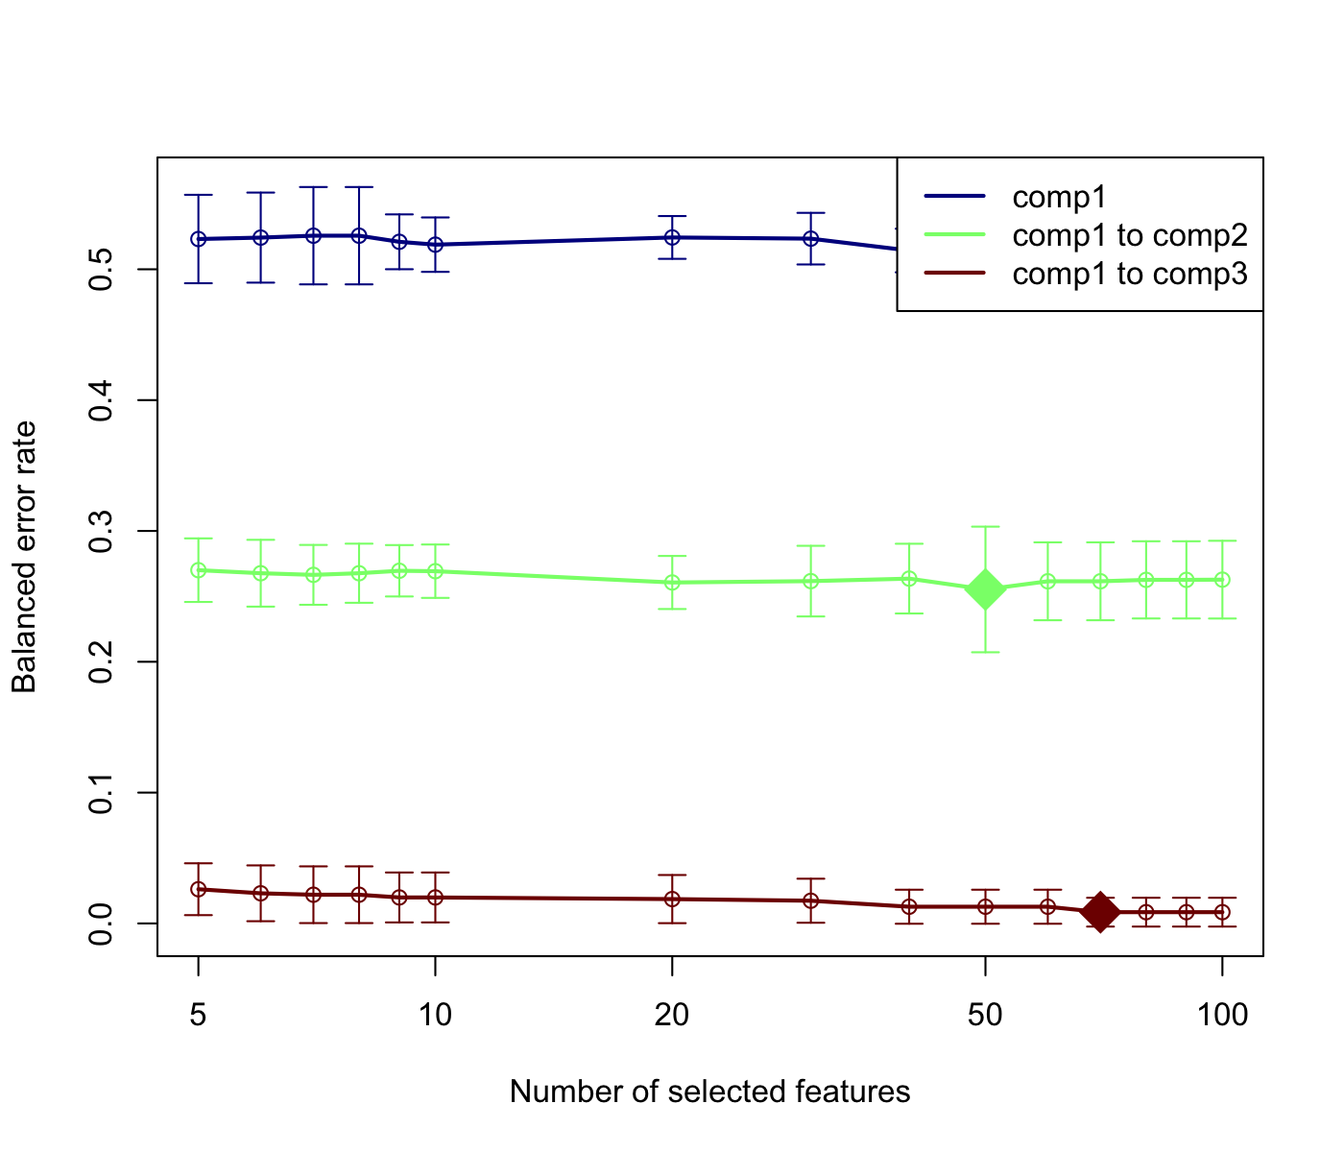
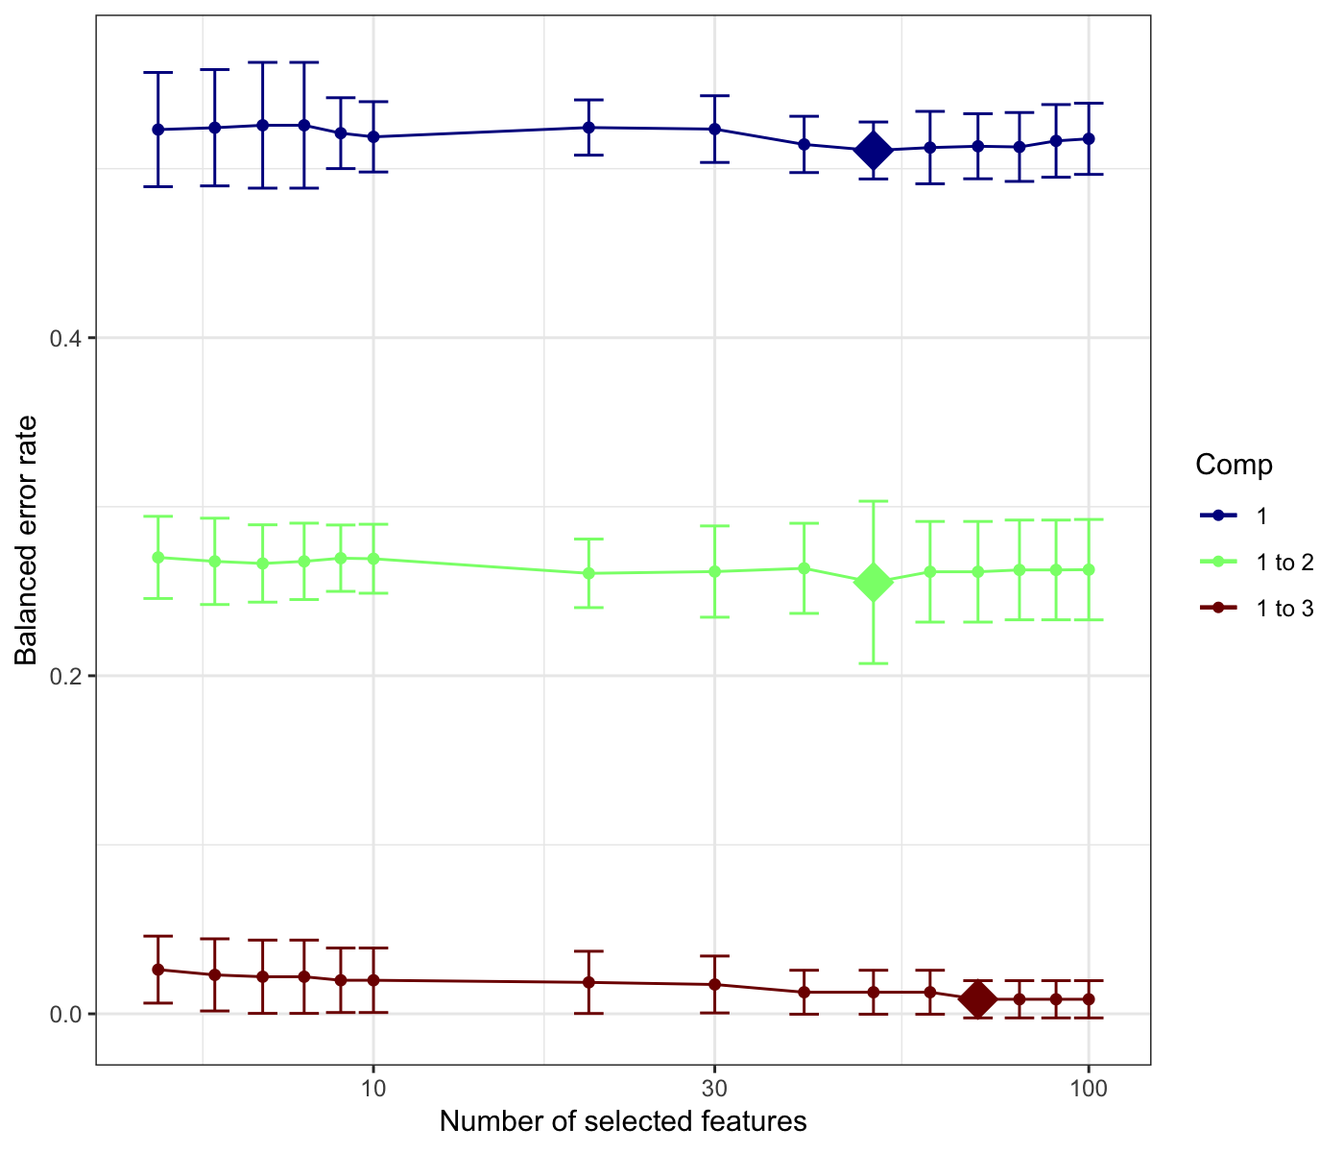
Update bookdown for mixOmics V 6.7.2

diff --git a/docs/index.html b/docs/index.html
@@ -25,7 +25,7 @@
 <meta name="author" content="Kim-Anh Le Cao &amp; Sebastien Dejean">
 
 
-<meta name="date" content="2019-01-08">
+<meta name="date" content="2019-04-26">
 
   <meta name="viewport" content="width=device-width, initial-scale=1">
   <meta name="apple-mobile-web-app-capable" content="yes">
@@ -211,7 +211,7 @@ code > span.in { color: #60a0b0; font-weight: bold; font-style: italic; } /* Inf
 <div id="header">
 <h1 class="title">mixOmics vignette</h1>
 <h4 class="author"><em>Kim-Anh Le Cao &amp; Sebastien Dejean</em></h4>
-<h4 class="date"><em>2019-01-08</em></h4>
+<h4 class="date"><em>2019-04-26</em></h4>
 </div>
 <div id="intro" class="section level1">
 <h1><span class="header-section-number">Chapter 1</span> Introduction</h1>
@@ -267,16 +267,27 @@ Figure 1.2: Main functions and parameters of each method
 </div>
 <div id="intro:pubs" class="section level3">
 <h3><span class="header-section-number">1.2.3</span> Key publications</h3>
+<div id="methods-papers" class="section level4">
+<h4><span class="header-section-number">1.2.3.1</span> Methods papers</h4>
 <p>The methods implemented in <code>mixOmics</code> are described in detail in the following publications. A more extensive list can be found at this <a href="http://mixomics.org/a-propos/publications/">link</a>.</p>
 <ul>
-<li><p><strong>Overview and recent integrative methods</strong>: Rohart F., Gautier, B, Singh, A, Le Cao, K. A. mixOmics: an <a href="http://journals.plos.org/ploscompbiol/article?id=10.1371/journal.pcbi.1005752">R package for ’omics feature selection and multiple data integration</a>. <em>PLoS Comput Biol</em> 13(11): e1005752.</p></li>
+<li><p><strong>DIABLO</strong> (<span style="color:blue">New</span>): Singh A, Gautier B, Shannon C, Vacher M, Rohart F, Tebbutt S, K-A. Le Cao (2019). <a href="https://academic.oup.com/bioinformatics/article-lookup/doi/10.1093/bioinformatics/bty1054">DIABLO: an integrative approach for identifying key molecular drivers from multi-omics assays</a>. <em>Bioinformatics</em> bty1054.</p></li>
+<li><p><strong>Overview and recent integrative methods</strong>: Rohart F., Gautier, B, Singh, A, Le Cao, K. A. mixOmics: an <a href="http://journals.plos.org/ploscompbiol/article?id=10.1371/journal.pcbi.1005752">R package for omics feature selection and multiple data integration</a>. <em>PLoS Comput Biol</em> 13(11): e1005752.</p></li>
 <li><p><strong>Graphical outputs for integrative methods</strong>: <span class="citation">(González et al. <a href="#ref-Gon12">2012</a>)</span> Gonzalez I., Le Cao K.-A., Davis, M.D. and Dejean S. (2012) <a href="https://biodatamining.biomedcentral.com/articles/10.1186/1756-0381-5-19">Insightful graphical outputs to explore relationships between two omics data sets</a>. <em>BioData Mining</em> 5:19.</p></li>
-<li><p><strong>DIABLO</strong>: Singh A, Gautier B, Shannon C, Vacher M, Rohart F, Tebbutt S, K-A. Le Cao. <a href="https://www.biorxiv.org/content/early/2018/03/20/067611">DIABLO - multi-omics data integration for biomarker discovery.</a></p></li>
 <li><p><strong>sparse PLS</strong>: Le Cao K.-A., Martin P.G.P, Robert-Granie C. and Besse, P. (2009) <a href="http://www.biomedcentral.com/1471-2105/10/34/">Sparse Canonical Methods for Biological Data Integration: application to a cross-platform study</a>. <em>BMC Bioinformatics</em>, 10:34.</p></li>
 <li><p><strong>sparse PLS-DA</strong>:Le Cao K.-A., Boitard S. and Besse P. (2011) <a href="https://bmcbioinformatics.biomedcentral.com/articles/10.1186/1471-2105-12-253">Sparse PLS Discriminant Analysis: biologically relevant feature selection and graphical displays for multiclass problems</a>. <em>BMC Bioinformatics</em>, 22:253.</p></li>
-<li><p><strong>Multilevel approach for repeated measurements</strong>: Liquet B, Le Cao K-A, Hocini H, Thiebaut R (2012). <a href="https://bmcbioinformatics.biomedcentral.com/articles/10.1186/1471-2105-13-325">A novel approach for biomarker selection and the integration of repeated measures experiments from two assays</a>. <em>BMC Bioinformatics</em>, 13:325</p></li>
 <li><p><strong>sPLS-DA for microbiome data</strong>: Le Cao K-A<span class="math inline">\(^*\)</span>, Costello ME <span class="math inline">\(^*\)</span>, Lakis VA , Bartolo F, Chua XY, Brazeilles R and Rondeau P. (2016) <a href="http://journals.plos.org/plosone/article?id=10.1371/journal.pone.0160169">MixMC: Multivariate insights into Microbial Communities</a>.PLoS ONE 11(8): e0160169</p></li>
+<li><p><strong>Multilevel approach for repeated measurements</strong>: Liquet B, Le Cao K-A, Hocini H, Thiebaut R (2012). <a href="https://bmcbioinformatics.biomedcentral.com/articles/10.1186/1471-2105-13-325">A novel approach for biomarker selection and the integration of repeated measures experiments from two assays</a>. <em>BMC Bioinformatics</em>, 13:325</p></li>
 </ul>
+</div>
+<div id="biological-application-papers" class="section level4">
+<h4><span class="header-section-number">1.2.3.2</span> Biological application papers</h4>
+<p>For those interested in how these methods have been applied to omics biological problems:</p>
+<ul>
+<li><p>Lee AH, Shanon CS, […], some members of mixOmics team and Kollman T (2019). <a href="https://www.nature.com/articles/s41467-019-08794-x">Dynamic molecular changes during the first week of human life follow a robust developmental trajectory</a> <em>Nature Communications</em> <strong>10</strong>: 1092. <em>We used DIABLO and other multi omics integrative methods to integratve 3 - 5 omics datasets</em>.</p></li>
+<li><p>Gavin PG, […], and Hamilton-Williams EE (2018). <a href="https://www.nature.com/articles/s41467-019-08794-x">Intestinal metaproteomics reveals host-microbiota interactions in subjects at risk for type 1 diabetes</a> <em>Diabetes care</em> <strong>41</strong>: 10. <em>We used DIABLO to integrate microbiome, proteomics and meta-proteomics</em>.</p></li>
+</ul>
+</div>
 </div>
 </div>
 <div id="outline-of-this-vignette" class="section level2">

diff --git a/docs/start.html b/docs/start.html
@@ -25,7 +25,7 @@
 <meta name="author" content="Kim-Anh Le Cao &amp; Sebastien Dejean">
 
 
-<meta name="date" content="2019-01-08">
+<meta name="date" content="2019-04-26">
 
   <meta name="viewport" content="width=device-width, initial-scale=1">
   <meta name="apple-mobile-web-app-capable" content="yes">
@@ -216,8 +216,11 @@ code > span.in { color: #60a0b0; font-weight: bold; font-style: italic; } /* Inf
 <div class="sourceCode"><pre class="sourceCode r"><code class="sourceCode r"><span class="cf">if</span> (<span class="op">!</span><span class="kw">requireNamespace</span>(<span class="st">&quot;BiocManager&quot;</span>, <span class="dt">quietly =</span> <span class="ot">TRUE</span>))
     <span class="kw">install.packages</span>(<span class="st">&quot;BiocManager&quot;</span>)
  BiocManager<span class="op">::</span><span class="kw">install</span>(<span class="st">&quot;mixOmics&quot;</span>)</code></pre></div>
-<p>Alternatively, you can install the development version of the package from Github.</p>
-<div class="sourceCode"><pre class="sourceCode r"><code class="sourceCode r">BiocManager<span class="op">::</span><span class="kw">install</span>(<span class="st">&quot;mixOmicsTeam/mixOmics/&quot;</span>)</code></pre></div>
+<p>Alternatively, you can install the <em>latest</em> development version of the package from Github.</p>
+<div class="sourceCode"><pre class="sourceCode r"><code class="sourceCode r"><span class="kw">install.packages</span>(<span class="st">&quot;devtools&quot;</span>)
+<span class="co"># then load</span>
+<span class="kw">library</span>(devtools)
+<span class="kw">install_github</span>(<span class="st">&quot;mixOmicsTeam/mixOmics&quot;</span>)</code></pre></div>
 <p>The <code>mixOmics</code> package should directly import the following packages: <code>igraph, rgl, ellipse, corpcor, RColorBrewer, plyr, parallel, dplyr, tidyr, reshape2, methods, matrixStats, rARPACK, gridExtra</code>. For <em>apple mac users</em>, if you are unable to install the imported library <code>rgl</code>, you will need to install the <a href="https://www.xquartz.org">XQuartz software</a> first.</p>
 </div>
 <div id="start:upload" class="section level2">
@@ -227,12 +230,15 @@ code > span.in { color: #60a0b0; font-weight: bold; font-style: italic; } /* Inf
 </div>
 <div id="upload-data" class="section level2">
 <h2><span class="header-section-number">2.3</span> Upload data</h2>
-<p>The examples we give in this vignette use data that are already part of the package. To upload your own data, check first that your working directory is set, then read your data from a <code>.txt</code> or <code>.csv</code> format, either by using <strong>File &gt; Import Dataset</strong> in RStudio or via one of these command lines:</p>
+<p>The examples we give in this vignette use data that are already part of the package, <em>which means that the objects are stored as list. However, you do not need to store your data as list, just data frames will do</em>. To upload your own data, check first that your working directory is set, then read your data from a <code>.txt</code> or <code>.csv</code> format, either by using <strong>File &gt; Import Dataset</strong> in RStudio (<em>although be mindful this option may pose problem with row and col name headers</em>) or via one of these command lines:</p>
 <div class="sourceCode"><pre class="sourceCode r"><code class="sourceCode r"><span class="co"># from csv file</span>
 data &lt;-<span class="st"> </span><span class="kw">read.csv</span>(<span class="st">&quot;your_data.csv&quot;</span>, <span class="dt">row.names =</span> <span class="dv">1</span>, <span class="dt">header =</span> <span class="ot">TRUE</span>)
 
 <span class="co"># from txt file</span>
-data &lt;-<span class="st"> </span><span class="kw">read.table</span>(<span class="st">&quot;your_data.txt&quot;</span>, <span class="dt">header =</span> <span class="ot">TRUE</span>)</code></pre></div>
+data &lt;-<span class="st"> </span><span class="kw">read.table</span>(<span class="st">&quot;your_data.txt&quot;</span>, <span class="dt">header =</span> <span class="ot">TRUE</span>)
+
+<span class="co"># then, in the argument in the mixOmics functions, just fill with:</span>
+<span class="co"># X = data</span></code></pre></div>
 <p>For more details about the arguments used to modify those functions, type <code>?read.csv</code> or <code>?read.table</code> in the R console.</p>
 </div>
 <div id="start:PCA" class="section level2">

diff --git a/docs/plsda.html b/docs/plsda.html
@@ -25,7 +25,7 @@
 <meta name="author" content="Kim-Anh Le Cao &amp; Sebastien Dejean">
 
 
-<meta name="date" content="2019-01-08">
+<meta name="date" content="2019-04-26">
 
   <meta name="viewport" content="width=device-width, initial-scale=1">
   <meta name="apple-mobile-web-app-capable" content="yes">
@@ -349,7 +349,18 @@ Y &lt;-<span class="st"> </span>srbct<span class="op">$</span>class
 MyPerf.plsda &lt;-<span class="st"> </span><span class="kw">perf</span>(MyResult.plsda2, <span class="dt">validation =</span> <span class="st">&quot;Mfold&quot;</span>, <span class="dt">folds =</span> <span class="dv">3</span>, 
                   <span class="dt">progressBar =</span> <span class="ot">FALSE</span>, <span class="dt">nrepeat =</span> <span class="dv">10</span>) <span class="co"># we suggest nrepeat = 50</span>
 
-<span class="kw">plot</span>(MyPerf.plsda, <span class="dt">col =</span> <span class="kw">color.mixo</span>(<span class="dv">5</span><span class="op">:</span><span class="dv">7</span>), <span class="dt">sd =</span> <span class="ot">TRUE</span>, <span class="dt">legend.position =</span> <span class="st">&quot;horizontal&quot;</span>)</code></pre></div>
+<span class="co"># type attributes(MyPerf.plsda) to see the different outputs</span>
+<span class="co"># slight bug in our output function currently see the quick fix below</span>
+<span class="co">#plot(MyPerf.plsda, col = color.mixo(5:7), sd = TRUE, legend.position = &quot;horizontal&quot;)</span>
+
+<span class="co"># quick fix</span>
+<span class="kw">matplot</span>(MyPerf.plsda<span class="op">$</span>error.rate<span class="op">$</span>BER, <span class="dt">type =</span> <span class="st">&#39;l&#39;</span>, <span class="dt">lty =</span> <span class="dv">1</span>, 
+        <span class="dt">col =</span> <span class="kw">color.mixo</span>(<span class="dv">1</span><span class="op">:</span><span class="dv">3</span>), 
+        <span class="dt">main =</span> <span class="st">&#39;Balanced Error rate&#39;</span>)
+<span class="kw">legend</span>(<span class="st">&#39;topright&#39;</span>, 
+       <span class="kw">c</span>(<span class="st">&#39;max.dist&#39;</span>, <span class="st">&#39;centroids.dist&#39;</span>, <span class="st">&#39;mahalanobis.dist&#39;</span>), 
+       <span class="dt">lty =</span> <span class="dv">1</span>,
+       <span class="dt">col =</span> <span class="kw">color.mixo</span>(<span class="dv">5</span><span class="op">:</span><span class="dv">7</span>))</code></pre></div>
 <p><img src="Figures/unnamed-chunk-13-1.png" width="50%" style="display: block; margin: auto;" /></p>
 <p>The plot outputs the classification error rate, or <em>Balanced</em> classification error rate when the number of samples per group is unbalanced, the standard deviation according to three prediction distances. Here we can see that for the BER and the maximum distance, the best performance (i.e. low error rate) seems to be achieved for <code>ncomp = 3</code>.</p>
 <p>In addition (<strong>item 3</strong> for PLS-DA), the numerical outputs listed here can be reported as performance measures:</p>

diff --git a/docs/session-information.html b/docs/session-information.html
@@ -25,7 +25,7 @@
 <meta name="author" content="Kim-Anh Le Cao &amp; Sebastien Dejean">
 
 
-<meta name="date" content="2019-01-08">
+<meta name="date" content="2019-04-26">
 
   <meta name="viewport" content="width=device-width, initial-scale=1">
   <meta name="apple-mobile-web-app-capable" content="yes">
@@ -211,7 +211,7 @@ code > span.in { color: #60a0b0; font-weight: bold; font-style: italic; } /* Inf
 <div id="session-information" class="section level1">
 <h1><span class="header-section-number">Chapter 7</span> Session Information</h1>
 <div class="sourceCode"><pre class="sourceCode r"><code class="sourceCode r"><span class="kw">sessionInfo</span>()</code></pre></div>
-<pre><code>## R version 3.5.0 (2018-04-23)
+<pre><code>## R version 3.5.3 (2019-03-11)
 ## Platform: x86_64-apple-darwin15.6.0 (64-bit)
 ## Running under: macOS High Sierra 10.13.3
 ## 
@@ -226,8 +226,8 @@ code > span.in { color: #60a0b0; font-weight: bold; font-style: italic; } /* Inf
 ## [1] stats     graphics  grDevices utils     datasets  methods   base     
 ## 
 ## loaded via a namespace (and not attached):
-##  [1] compiler_3.5.0  backports_1.1.2 magrittr_1.5    bookdown_0.7   
-##  [5] rprojroot_1.3-2 tools_3.5.0     htmltools_0.3.6 yaml_2.2.0     
+##  [1] compiler_3.5.3  backports_1.1.3 magrittr_1.5    bookdown_0.7   
+##  [5] rprojroot_1.3-2 tools_3.5.3     htmltools_0.3.6 yaml_2.2.0     
 ##  [9] Rcpp_1.0.0      stringi_1.2.4   rmarkdown_1.10  knitr_1.20     
 ## [13] stringr_1.3.1   xfun_0.4        digest_0.6.18   evaluate_0.12</code></pre>
 

diff --git a/docs/diablo.html b/docs/diablo.html
@@ -25,7 +25,7 @@
 <meta name="author" content="Kim-Anh Le Cao &amp; Sebastien Dejean">
 
 
-<meta name="date" content="2019-01-08">
+<meta name="date" content="2019-04-26">
 
   <meta name="viewport" content="width=device-width, initial-scale=1">
   <meta name="apple-mobile-web-app-capable" content="yes">

diff --git a/docs/pca.html b/docs/pca.html
@@ -25,7 +25,7 @@
 <meta name="author" content="Kim-Anh Le Cao &amp; Sebastien Dejean">
 
 
-<meta name="date" content="2019-01-08">
+<meta name="date" content="2019-04-26">
 
   <meta name="viewport" content="width=device-width, initial-scale=1">
   <meta name="apple-mobile-web-app-capable" content="yes">

diff --git a/docs/pls.html b/docs/pls.html
@@ -25,7 +25,7 @@
 <meta name="author" content="Kim-Anh Le Cao &amp; Sebastien Dejean">
 
 
-<meta name="date" content="2019-01-08">
+<meta name="date" content="2019-04-26">
 
   <meta name="viewport" content="width=device-width, initial-scale=1">
   <meta name="apple-mobile-web-app-capable" content="yes">

diff --git a/docs/index.md b/docs/index.md
@@ -3,7 +3,7 @@ title: 'mixOmics vignette'
 author: 'Kim-Anh Le Cao & Sebastien Dejean'
 package: mixOmics
 site: bookdown::bookdown_site
-date: "2019-01-08"
+date: "2019-04-26"
 output: 
   bookdown::gitbook
 documentclass: book
@@ -99,21 +99,32 @@ Here is an overview of the most widely used methods in `mixOmics` that will be f
 
 ### Key publications {#intro:pubs}
 
+#### Methods papers
 The methods implemented in `mixOmics` are described in detail in the following publications. A more extensive list can be found at this [link](http://mixomics.org/a-propos/publications/).
 
-- **Overview and recent integrative methods**: Rohart F.,  Gautier, B, Singh, A, Le Cao, K. A. mixOmics: an [R package for 'omics feature selection and multiple data integration](http://journals.plos.org/ploscompbiol/article?id=10.1371/journal.pcbi.1005752). *PLoS Comput Biol* 13(11): e1005752.
+- **DIABLO** (<span style="color:blue">New</span>): Singh A, Gautier B, Shannon C, Vacher M, Rohart F, Tebbutt S, K-A. Le Cao (2019). [DIABLO: an integrative approach for identifying key molecular drivers from multi-omics assays](https://academic.oup.com/bioinformatics/article-lookup/doi/10.1093/bioinformatics/bty1054). *Bioinformatics* bty1054. 
+
+
+- **Overview and recent integrative methods**: Rohart F.,  Gautier, B, Singh, A, Le Cao, K. A. mixOmics: an [R package for omics feature selection and multiple data integration](http://journals.plos.org/ploscompbiol/article?id=10.1371/journal.pcbi.1005752). *PLoS Comput Biol* 13(11): e1005752.
 
 - **Graphical outputs for integrative methods**: [@Gon12] Gonzalez I., Le Cao K.-A., Davis, M.D. and Dejean S. (2012) [Insightful graphical outputs to explore relationships between two omics data sets](https://biodatamining.biomedcentral.com/articles/10.1186/1756-0381-5-19). *BioData Mining* 5:19.
 
-- **DIABLO**: Singh A, Gautier B, Shannon C, Vacher M, Rohart F, Tebbutt S, K-A. Le Cao. [DIABLO - multi-omics data integration for biomarker discovery.](https://www.biorxiv.org/content/early/2018/03/20/067611)
 
 - **sparse PLS**: Le Cao K.-A., Martin P.G.P, Robert-Granie C. and Besse, P. (2009) [Sparse Canonical Methods for Biological Data Integration: application to a cross-platform study](http://www.biomedcentral.com/1471-2105/10/34/). *BMC Bioinformatics*, 10:34.
 
 - **sparse PLS-DA**:Le Cao K.-A., Boitard S. and Besse P. (2011) [Sparse PLS Discriminant Analysis: biologically relevant feature selection and graphical displays for multiclass problems]( https://bmcbioinformatics.biomedcentral.com/articles/10.1186/1471-2105-12-253). *BMC Bioinformatics*, 22:253.
 
+- **sPLS-DA for microbiome data**: Le Cao K-A$^*$, Costello ME $^*$, Lakis VA , Bartolo F, Chua XY, Brazeilles R and Rondeau P. (2016) [MixMC: Multivariate insights into Microbial Communities](http://journals.plos.org/plosone/article?id=10.1371/journal.pone.0160169).PLoS ONE 11(8): e0160169
+
 - **Multilevel approach for repeated measurements**: Liquet B, Le Cao K-A, Hocini H, Thiebaut R (2012). [A novel approach for biomarker selection and the integration of repeated measures experiments from two assays](https://bmcbioinformatics.biomedcentral.com/articles/10.1186/1471-2105-13-325). *BMC Bioinformatics*, 13:325
 
-- **sPLS-DA for microbiome data**: Le Cao K-A$^*$, Costello ME $^*$, Lakis VA , Bartolo F, Chua XY, Brazeilles R and Rondeau P. (2016) [MixMC: Multivariate insights into Microbial Communities](http://journals.plos.org/plosone/article?id=10.1371/journal.pone.0160169).PLoS ONE 11(8): e0160169
+
+#### Biological application papers
+For those interested in how these methods have been applied to omics biological problems:
+
+- Lee AH, Shanon CS, [...], some members of mixOmics team and Kollman T (2019). [Dynamic molecular changes during the first week of human life follow a robust developmental trajectory](https://www.nature.com/articles/s41467-019-08794-x) *Nature Communications* **10**: 1092. *We used DIABLO and other multi omics integrative methods to integratve 3 - 5 omics datasets*.
+
+- Gavin PG, [...], and Hamilton-Williams EE (2018). [Intestinal metaproteomics reveals host-microbiota interactions in subjects at risk for type 1 diabetes](https://www.nature.com/articles/s41467-019-08794-x) *Diabetes care* **41**: 10. *We used DIABLO to integrate microbiome, proteomics and meta-proteomics*.
 
 
 

diff --git a/docs/02-get-started.md b/docs/02-get-started.md
@@ -12,10 +12,13 @@ if (!requireNamespace("BiocManager", quietly = TRUE))
  BiocManager::install("mixOmics")
 ```
 
-Alternatively, you can install the development version of the package from Github.
+Alternatively, you can install the *latest* development version of the package from Github.
 
 ```r
-BiocManager::install("mixOmicsTeam/mixOmics/")
+install.packages("devtools")
+# then load
+library(devtools)
+install_github("mixOmicsTeam/mixOmics")
 ```
 
 The `mixOmics` package should directly import the following packages: `igraph, rgl, ellipse, corpcor, RColorBrewer, plyr, parallel, dplyr, tidyr, reshape2, methods, matrixStats, rARPACK, gridExtra`. For *apple mac users*, if you are unable to install the imported library `rgl`, you will need to install the [XQuartz software](https://www.xquartz.org) first.
@@ -29,7 +32,7 @@ library(mixOmics)
 Check that there is no error when loading the package, especially for the `rgl` library (see above).
 
 ## Upload data
-The examples we give in this vignette use data that are already part of the package. To upload your own data, check first that your working directory is set, then read your data from a  `.txt` or `.csv` format, either by using **File > Import Dataset** in RStudio or via one of these command lines:
+The examples we give in this vignette use data that are already part of the package, *which means that the objects are stored as list. However, you do not need to store your data as list, just data frames will do*. To upload your own data, check first that your working directory is set, then read your data from a  `.txt` or `.csv` format, either by using **File > Import Dataset** in RStudio (*although be mindful this option may pose problem with row and col name headers*) or via one of these command lines:
 
 
 ```r
@@ -38,6 +41,9 @@ data <- read.csv("your_data.csv", row.names = 1, header = TRUE)
 
 # from txt file
 data <- read.table("your_data.txt", header = TRUE)
+
+# then, in the argument in the mixOmics functions, just fill with:
+# X = data
 ```
 
 For more details about the arguments used to modify those functions, type `?read.csv` or `?read.table` in the R console.

diff --git a/docs/04-PLSDA.md b/docs/04-PLSDA.md
@@ -247,7 +247,18 @@ set.seed(30) # for reproducbility in this vignette, otherwise increase nrepeat
 MyPerf.plsda <- perf(MyResult.plsda2, validation = "Mfold", folds = 3, 
                   progressBar = FALSE, nrepeat = 10) # we suggest nrepeat = 50
 
-plot(MyPerf.plsda, col = color.mixo(5:7), sd = TRUE, legend.position = "horizontal")
+# type attributes(MyPerf.plsda) to see the different outputs
+# slight bug in our output function currently see the quick fix below
+#plot(MyPerf.plsda, col = color.mixo(5:7), sd = TRUE, legend.position = "horizontal")
+
+# quick fix
+matplot(MyPerf.plsda$error.rate$BER, type = 'l', lty = 1, 
+        col = color.mixo(1:3), 
+        main = 'Balanced Error rate')
+legend('topright', 
+       c('max.dist', 'centroids.dist', 'mahalanobis.dist'), 
+       lty = 1,
+       col = color.mixo(5:7))
 ```
 
 <img src="Figures/unnamed-chunk-13-1.png" width="50%" style="display: block; margin: auto;" />

diff --git a/docs/07-SessionInfo.md b/docs/07-SessionInfo.md
@@ -7,7 +7,7 @@ sessionInfo()
 ```
 
 ```
-## R version 3.5.0 (2018-04-23)
+## R version 3.5.3 (2019-03-11)
 ## Platform: x86_64-apple-darwin15.6.0 (64-bit)
 ## Running under: macOS High Sierra 10.13.3
 ## 
@@ -22,8 +22,8 @@ sessionInfo()
 ## [1] stats     graphics  grDevices utils     datasets  methods   base     
 ## 
 ## loaded via a namespace (and not attached):
-##  [1] compiler_3.5.0  backports_1.1.2 magrittr_1.5    bookdown_0.7   
-##  [5] rprojroot_1.3-2 tools_3.5.0     htmltools_0.3.6 yaml_2.2.0     
+##  [1] compiler_3.5.3  backports_1.1.3 magrittr_1.5    bookdown_0.7   
+##  [5] rprojroot_1.3-2 tools_3.5.3     htmltools_0.3.6 yaml_2.2.0     
 ##  [9] Rcpp_1.0.0      stringi_1.2.4   rmarkdown_1.10  knitr_1.20     
 ## [13] stringr_1.3.1   xfun_0.4        digest_0.6.18   evaluate_0.12
 ```
